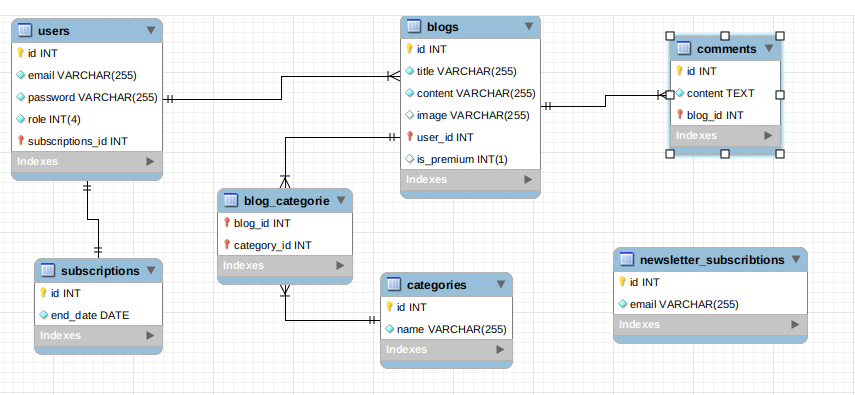
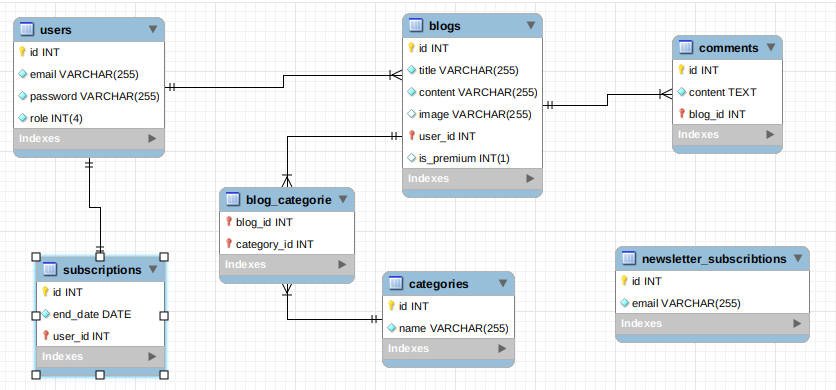
Add relationships

diff --git a/app/Models/Blog.php b/app/Models/Blog.php
@@ -1,0 +1,38 @@
+<?php
+
+namespace App\Models;
+
+use Illuminate\Database\Eloquent\Factories\HasFactory;
+use Illuminate\Database\Eloquent\Model;
+
+class Blog extends Model
+{
+    use HasFactory;
+
+    protected $fillable = [
+        'title',
+        'content',
+        'image',
+        'user_id',
+        'is_premium',
+    ];
+
+    #region Relationships
+
+    public function user()
+    {
+        return $this->belongsTo(User::class);
+    }
+
+    public function comments()
+    {
+        return $this->hasMany(Comment::class);
+    }
+
+    public function categories()
+    {
+        return $this->hasMany(Category::class);
+    }
+
+    #endregion
+}

diff --git a/app/Models/Comment.php b/app/Models/Comment.php
@@ -1,0 +1,25 @@
+<?php
+
+namespace App\Models;
+
+use Illuminate\Database\Eloquent\Factories\HasFactory;
+use Illuminate\Database\Eloquent\Model;
+
+class Comment extends Model
+{
+    use HasFactory;
+
+    protected $fillable = [
+        'content',
+        'blog_id'
+    ];
+
+    #region Relationships
+
+    public function blog()
+    {
+        return $this->belongsTo(Blog::class);
+    }
+
+    #endregion
+}

diff --git a/app/Models/Subscription.php b/app/Models/Subscription.php
@@ -1,0 +1,22 @@
+<?php
+
+namespace App\Models;
+
+use Illuminate\Database\Eloquent\Factories\HasFactory;
+use Illuminate\Database\Eloquent\Model;
+
+class Subscription extends Model
+{
+    use HasFactory;
+
+    protected $fillable = ['end_date'];
+
+    #region Relationships
+
+    public function user()
+    {
+        return $this->belongsTo(User::class);
+    }
+
+    #endregion
+}

diff --git a/app/Models/Category.php b/app/Models/Category.php
@@ -1,0 +1,22 @@
+<?php
+
+namespace App\Models;
+
+use Illuminate\Database\Eloquent\Factories\HasFactory;
+use Illuminate\Database\Eloquent\Model;
+
+class Category extends Model
+{
+    use HasFactory;
+
+    protected $fillable = ['name'];
+
+    #region Relationships
+
+    public function blogs()
+    {
+        return $this->hasMany(Blog::class);
+    }
+
+    #endregion
+}

diff --git a/app/Models/User.php b/app/Models/User.php
@@ -40,4 +40,18 @@ class User extends Authenticatable
     protected $casts = [
         'email_verified_at' => 'datetime',
     ];
+
+    #region Relationships
+
+    public function subscription() 
+    {
+        return $this->hasOne(Subscription::class);
+    }
+
+    public function blogs()
+    {
+        return $this->hasMany(Blog::class);
+    }
+
+    #endregion
 }

diff --git a/database/migrations/2014_10_12_000000_create_users_table.php b/database/migrations/2014_10_12_000000_create_users_table.php
@@ -20,7 +20,6 @@ class CreateUsersTable extends Migration
             $table->timestamp('email_verified_at')->nullable();
             $table->string('password');
             $table->smallInteger('role')->default(0);
-            $table->unsignedBigInteger('subscriptions_id');
             $table->rememberToken();
             $table->timestamps();
         });

diff --git a/database/migrations/2021_03_11_083947_create_subriptions_table.php b/database/migrations/2021_03_11_083947_create_subriptions_table.php
@@ -15,6 +15,7 @@ class CreateSubriptionsTable extends Migration
     {
         Schema::create('subriptions', function (Blueprint $table) {
             $table->id();
+            $table->unsignedBigInteger('user_id');
             $table->date('end_date');
             $table->timestamps();
         });

diff --git a/app/Models/NewsletterSubscription.php b/app/Models/NewsletterSubscription.php
@@ -1,0 +1,13 @@
+<?php
+
+namespace App\Models;
+
+use Illuminate\Database\Eloquent\Factories\HasFactory;
+use Illuminate\Database\Eloquent\Model;
+
+class NewsletterSubscription extends Model
+{
+    use HasFactory;
+
+    protected $fillable = ['email'];
+}
